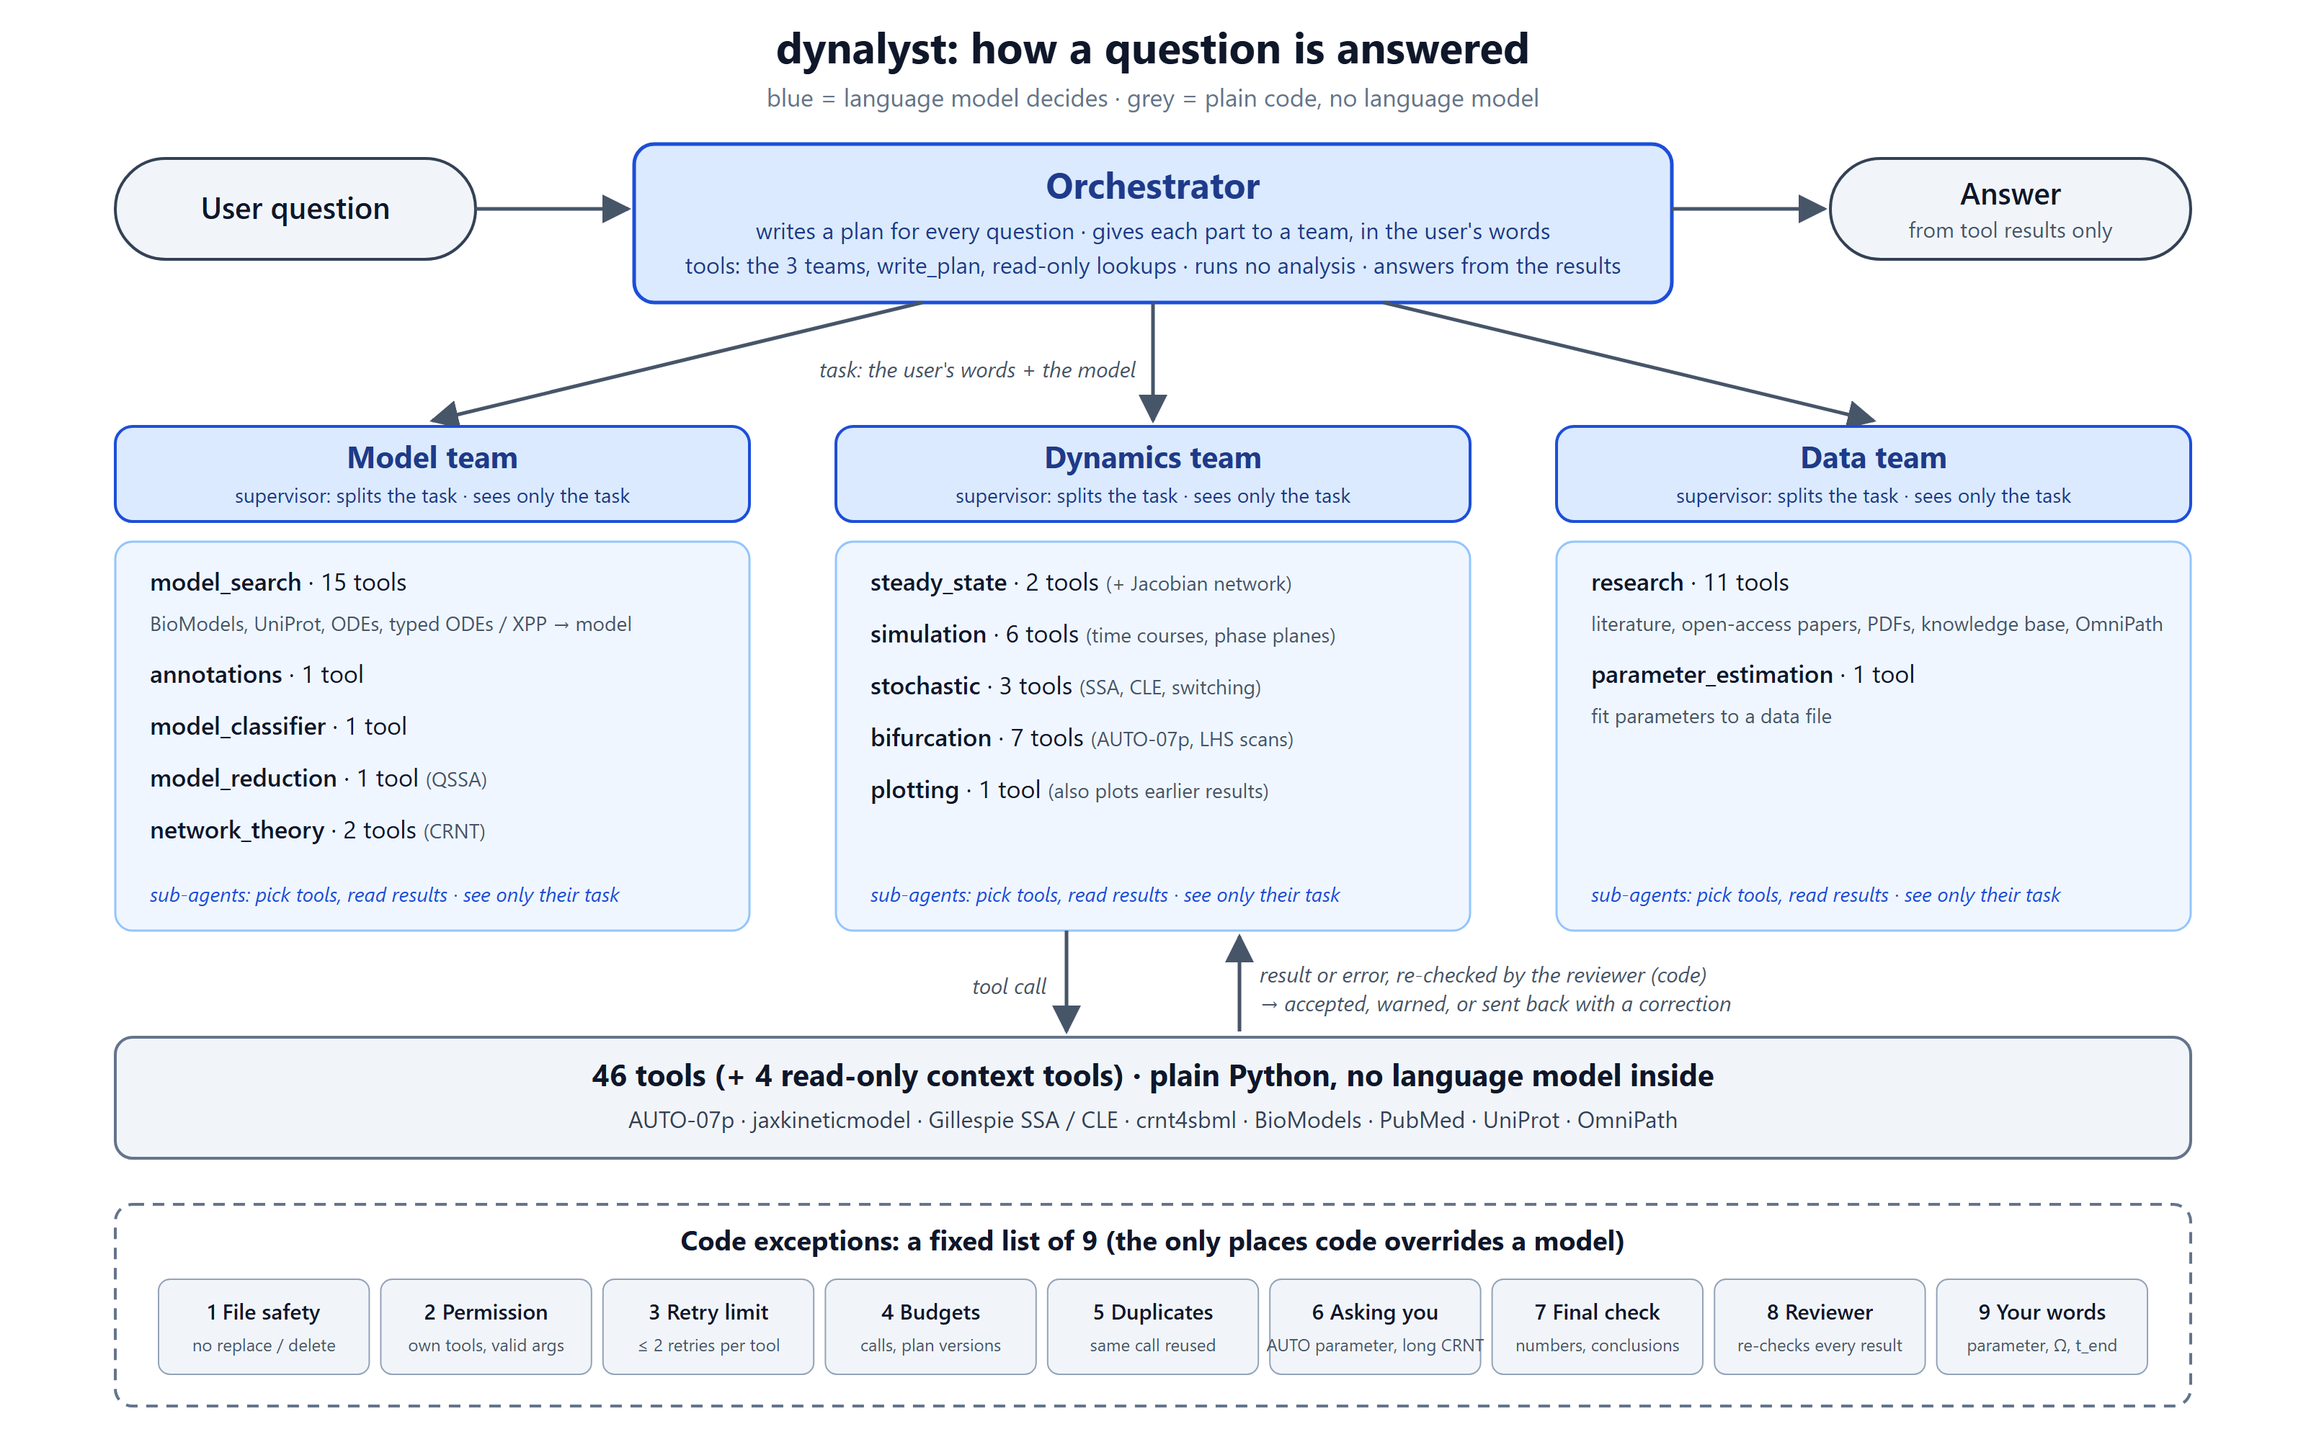
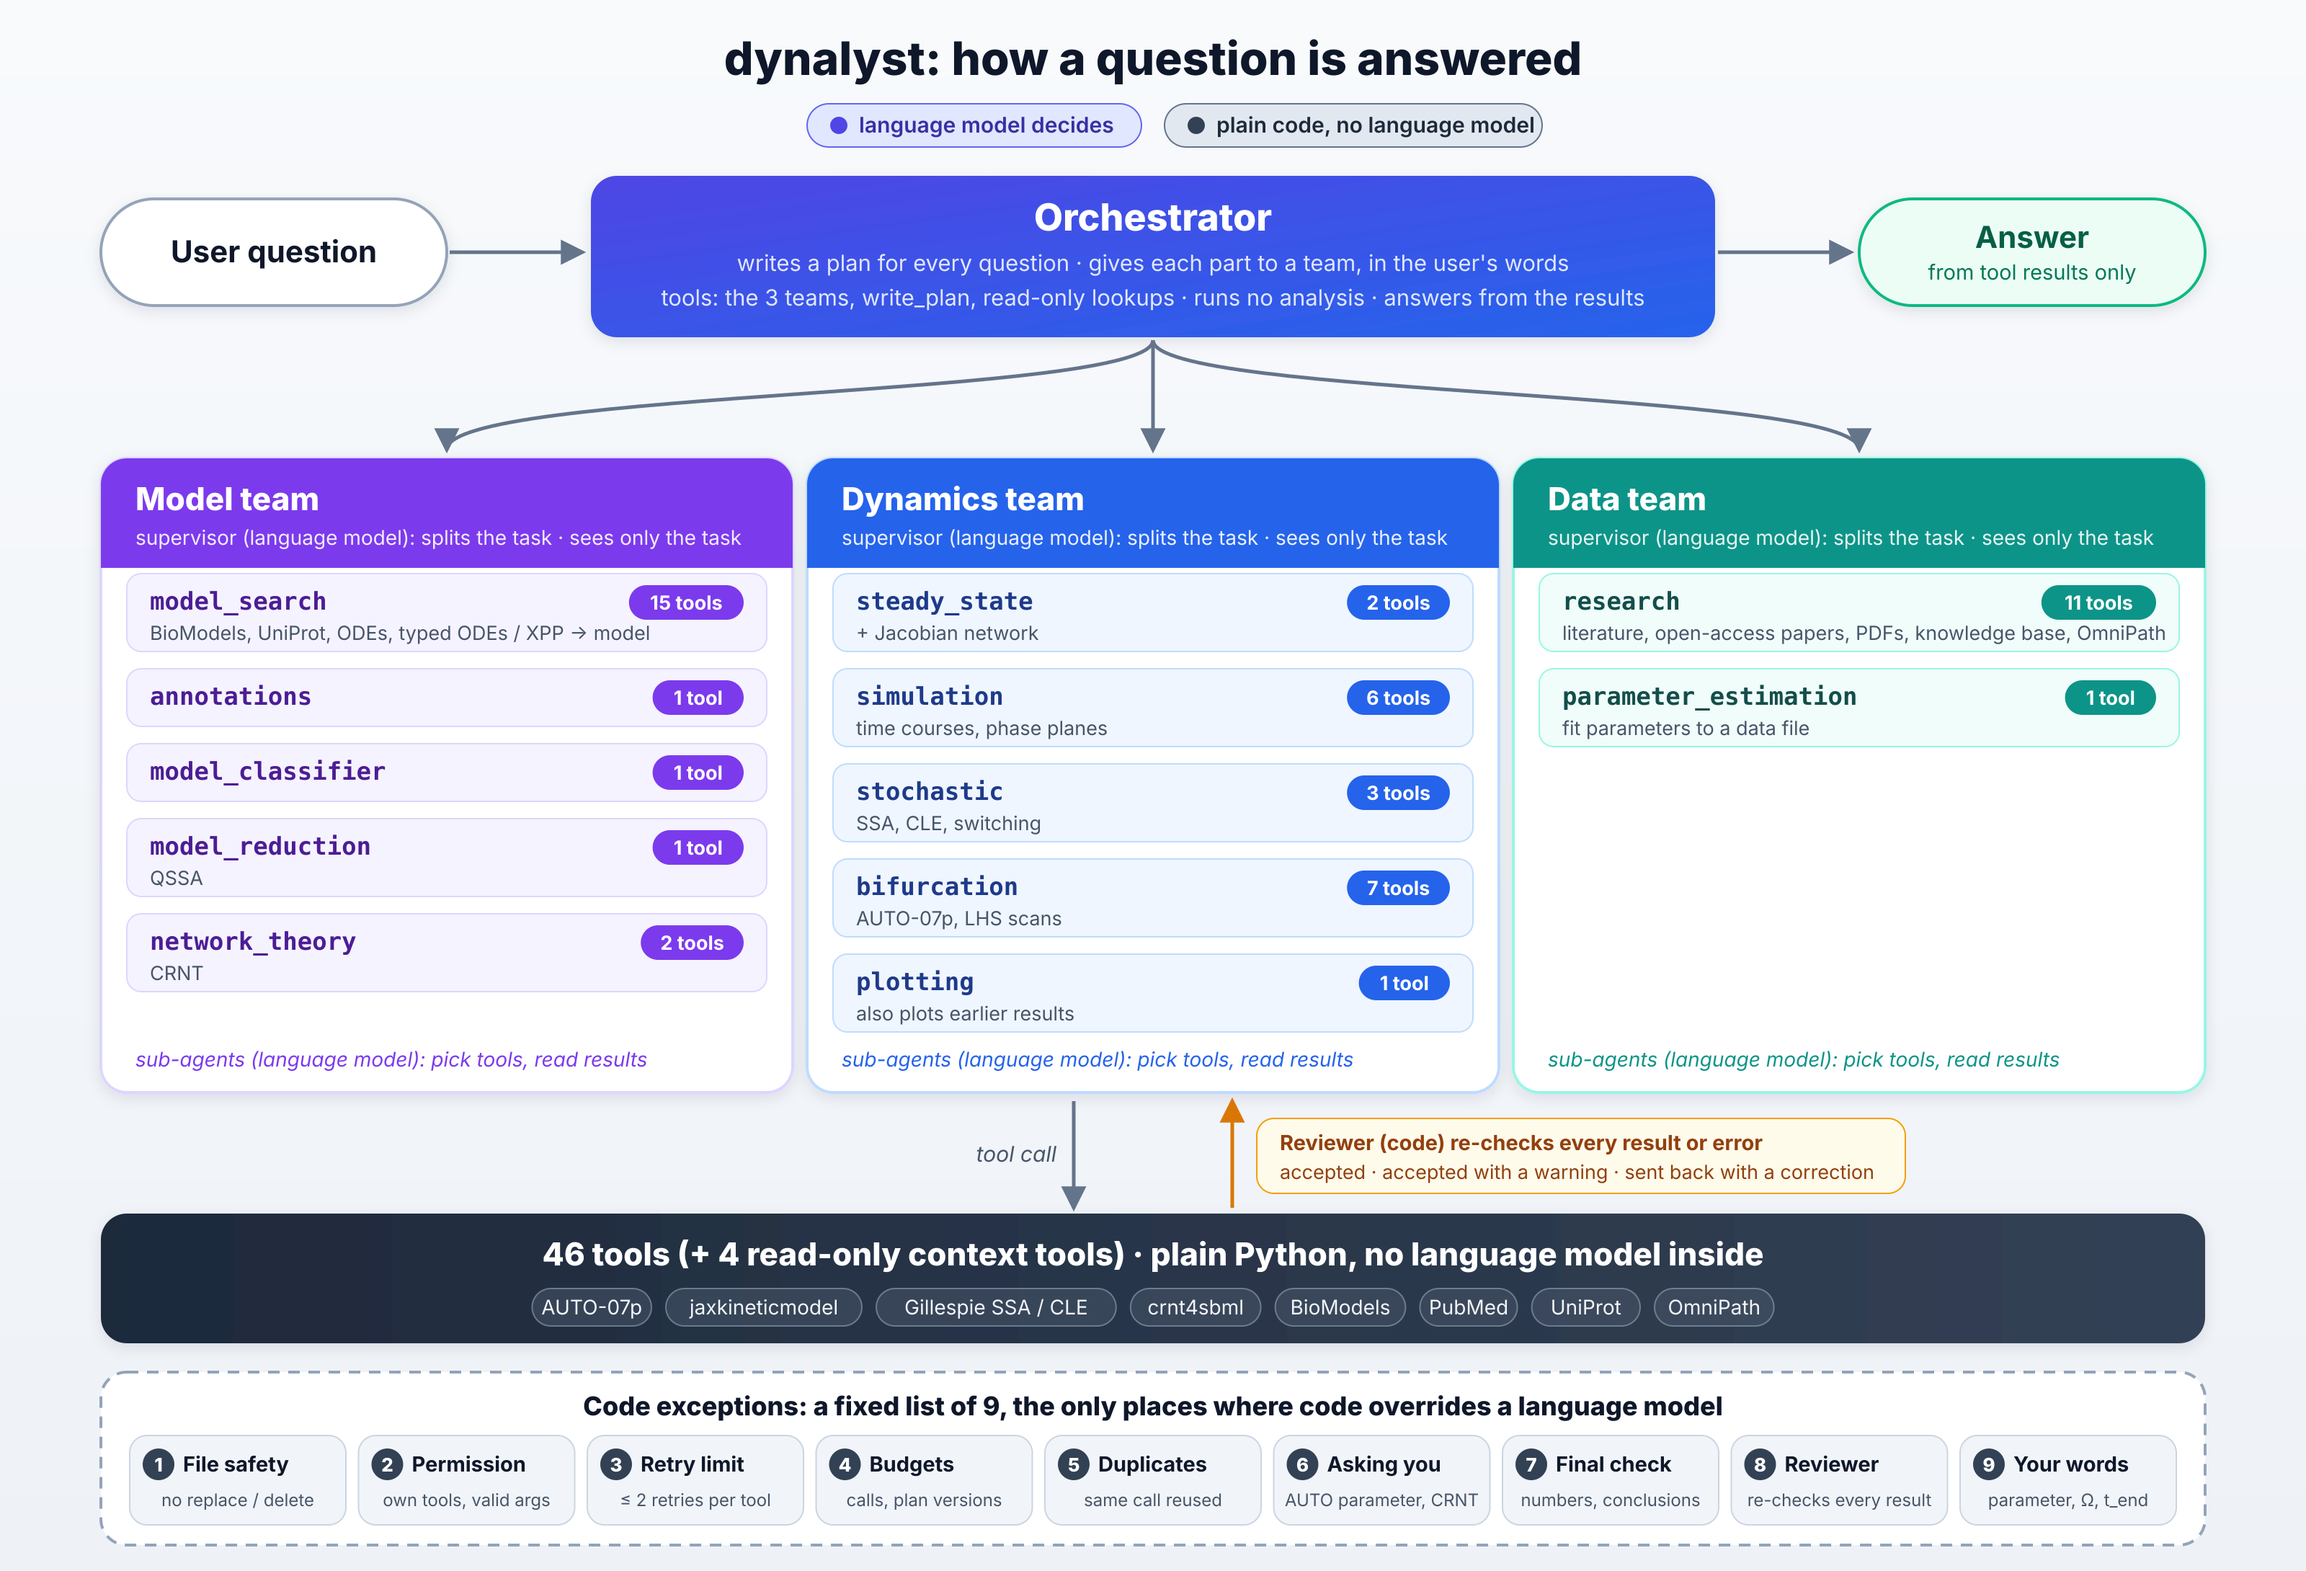
Redraw the architecture diagram and flowchart

diff --git a/README.md b/README.md
@@ -262,16 +262,34 @@ that are numerically right, and an answer whose numbers are real).
 The same, as a flowchart:
 
 ```mermaid
+%%{init: {"theme": "base", "themeVariables": {"fontFamily": "Inter, Segoe UI, Helvetica, Arial, sans-serif", "fontSize": "15px", "lineColor": "#64748b"}}}%%
 flowchart TD
-    U([User question]) --> O[Orchestrator<br/><i>LLM: plans, delegates, answers</i>]
-    O --> T[3 team supervisors<br/><i>LLM</i>]
-    T --> S[12 sub-agents<br/><i>LLM</i>]
-    S --> X[46 tools<br/><i>plain Python: AUTO-07p, jaxkineticmodel, SSA, CRNT, ...</i>]
-    X --> R{Reviewer<br/><i>code: re-checks the result</i>}
-    R -->|result, warnings, or sent back with a correction| S
-    S -->|report| T -->|report| O
+    U([User question]) --> O["<b>Orchestrator</b><br/><i>language model: plans, delegates, answers</i>"]
+    O --> T["<b>3 team supervisors</b><br/><i>language model</i>"]
+    T --> S["<b>12 sub-agents</b><br/><i>language model</i>"]
+    S -->|tool call| X["<b>46 tools</b><br/><i>plain Python: AUTO-07p, jaxkineticmodel, SSA, CRNT, ...</i>"]
+    X --> R{"<b>Reviewer</b><br/><i>code: re-checks the result</i>"}
+    R -->|result, warning, or sent back with a correction| S
+    S -->|report| T
+    T -->|report| O
     O --> A([Answer, from tool results only])
-    C{{Code exceptions: file safety · permission · retry limit · budgets ·<br/>duplicates · asking the user · final check · reviewer}} -.-> X & A
+    C{{"<b>Code exceptions</b><br/>file safety · permission · retry limit · budgets<br/>duplicates · asking the user · final check · reviewer · the user's words"}} -.-> X
+    C -.-> A
+
+    classDef user fill:#ffffff,stroke:#94a3b8,stroke-width:2px,color:#0f172a
+    classDef orch fill:#4f46e5,stroke:#3730a3,stroke-width:2px,color:#ffffff
+    classDef llm fill:#e0e7ff,stroke:#6366f1,stroke-width:2px,color:#1e1b4b
+    classDef code fill:#1e293b,stroke:#0f172a,stroke-width:2px,color:#f1f5f9
+    classDef review fill:#fffbeb,stroke:#f59e0b,stroke-width:2px,color:#78350f
+    classDef answer fill:#ecfdf5,stroke:#10b981,stroke-width:2px,color:#065f46
+    classDef rules fill:#f1f5f9,stroke:#64748b,stroke-width:1.5px,stroke-dasharray:6 4,color:#0f172a
+    class U user
+    class O orch
+    class T,S llm
+    class X code
+    class R review
+    class A answer
+    class C rules
 ```
 
 1. The **orchestrator** reads the question, passes each part to a team in the user's own
